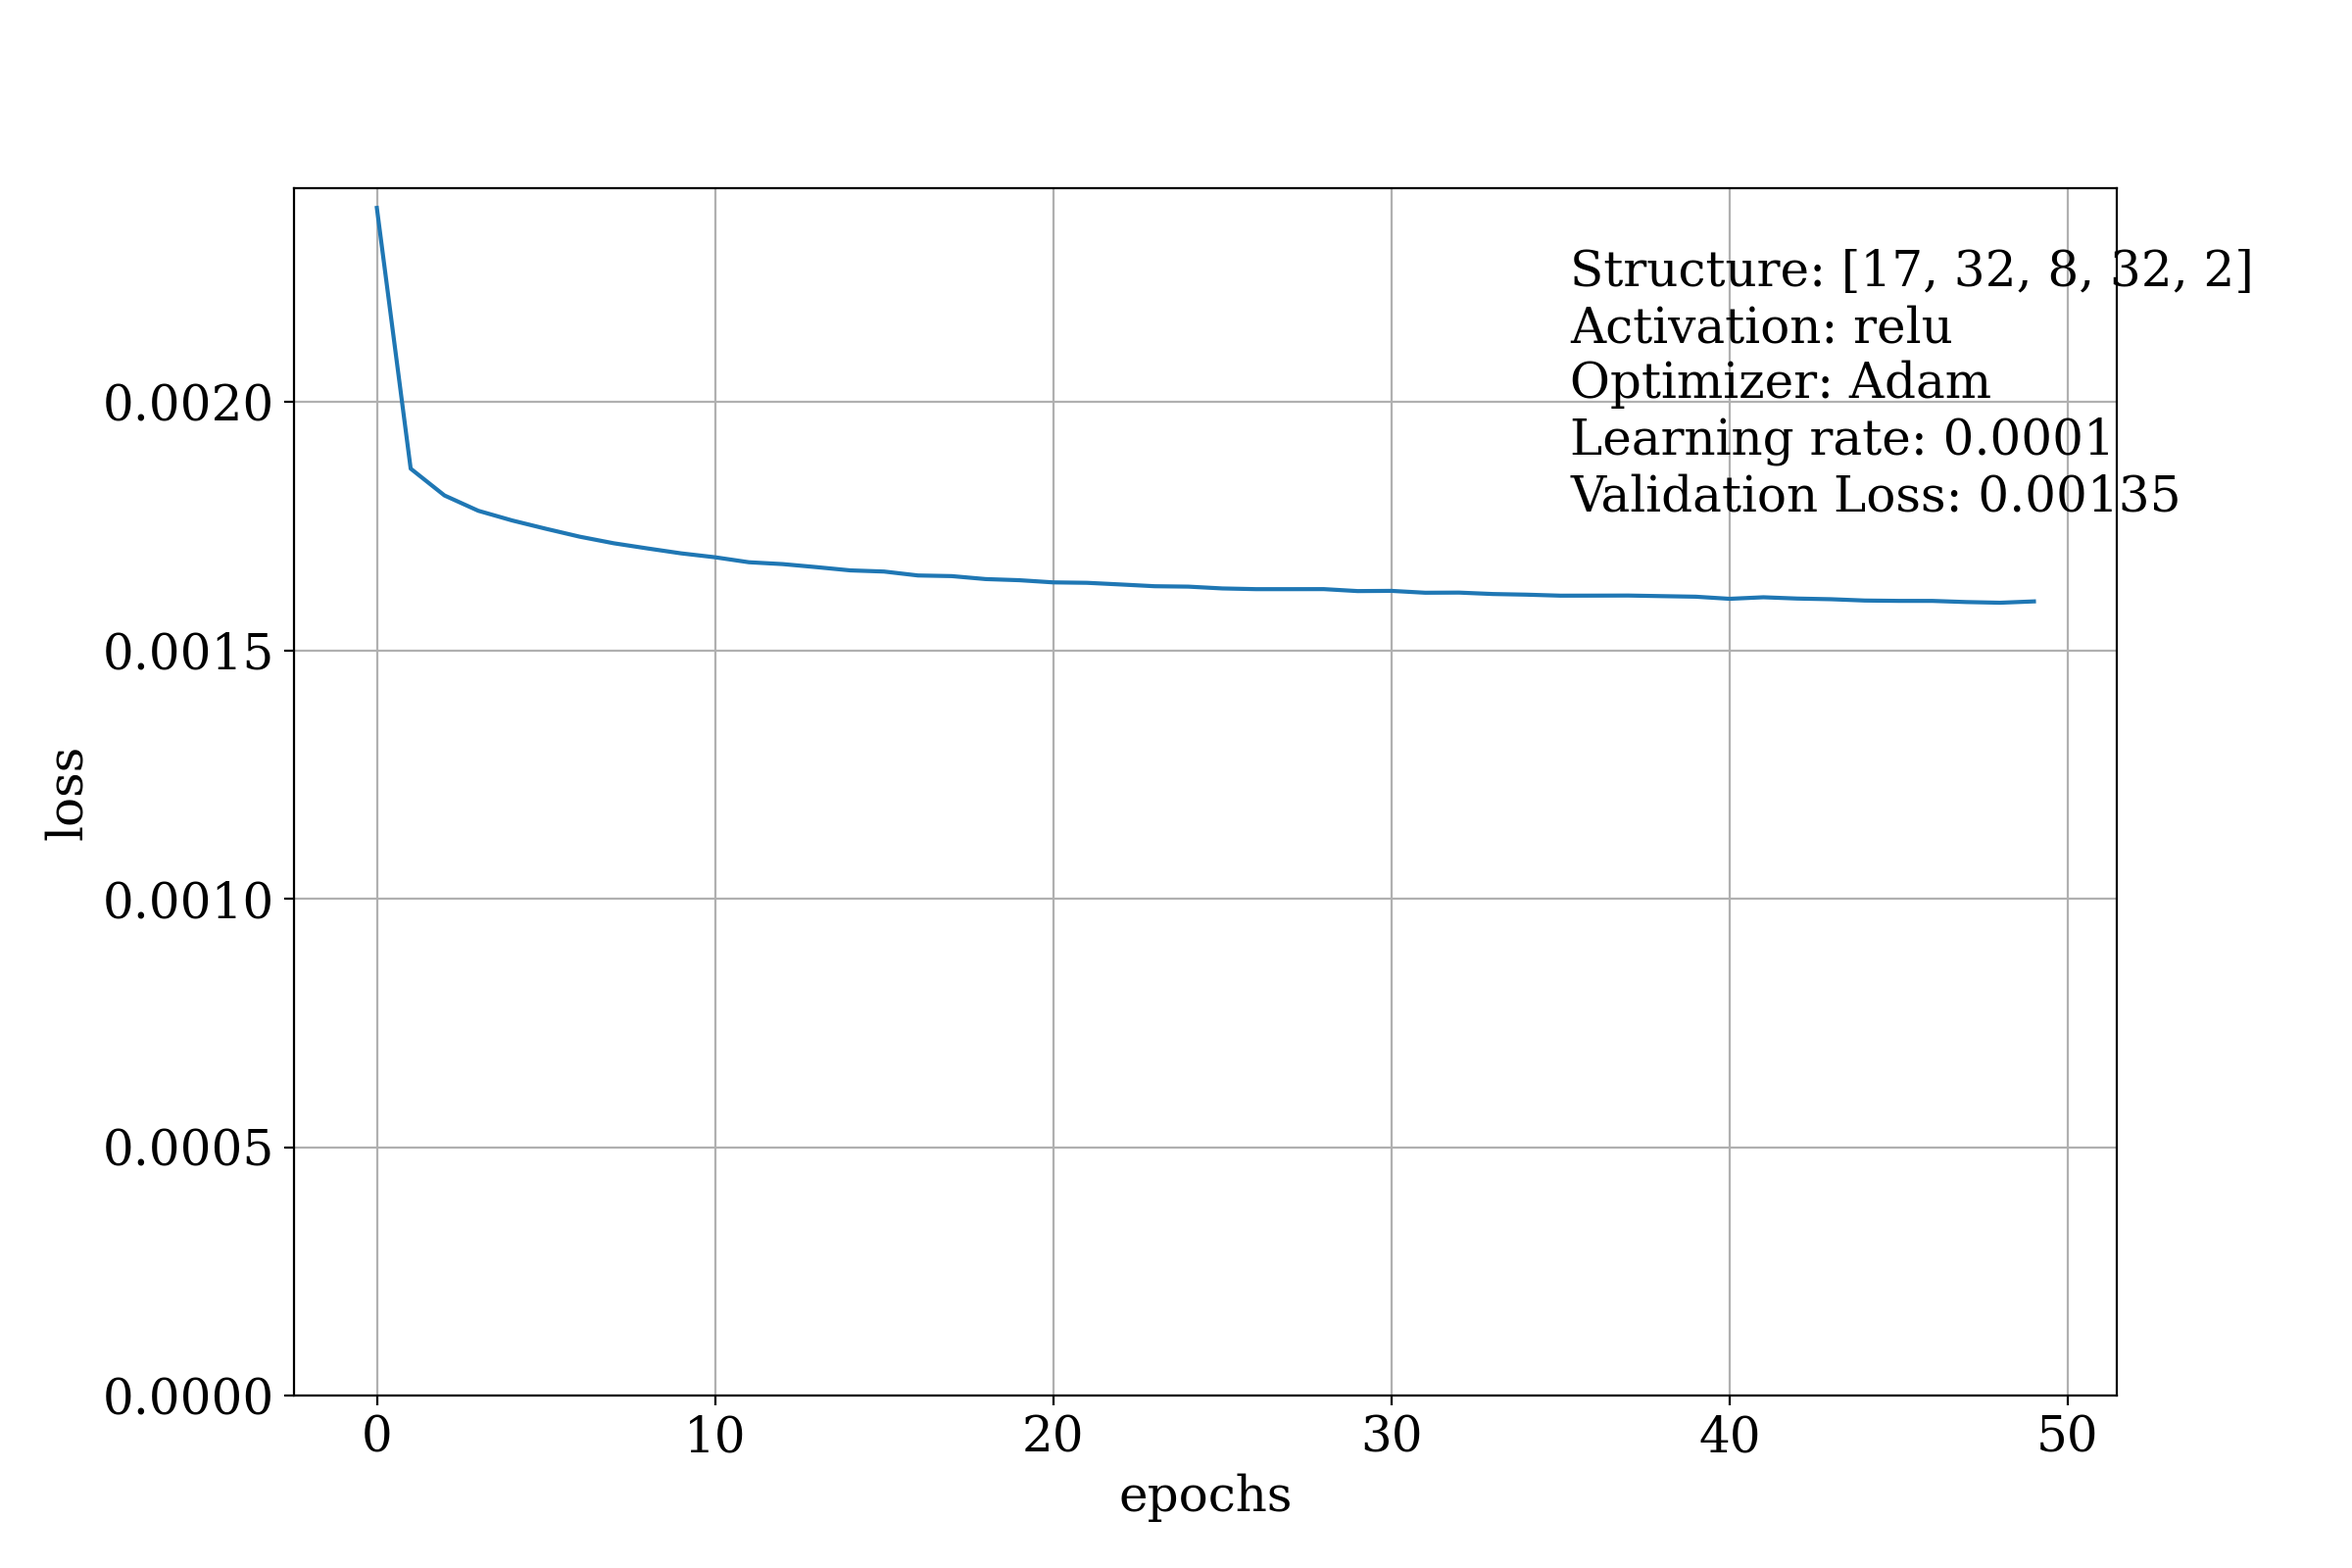
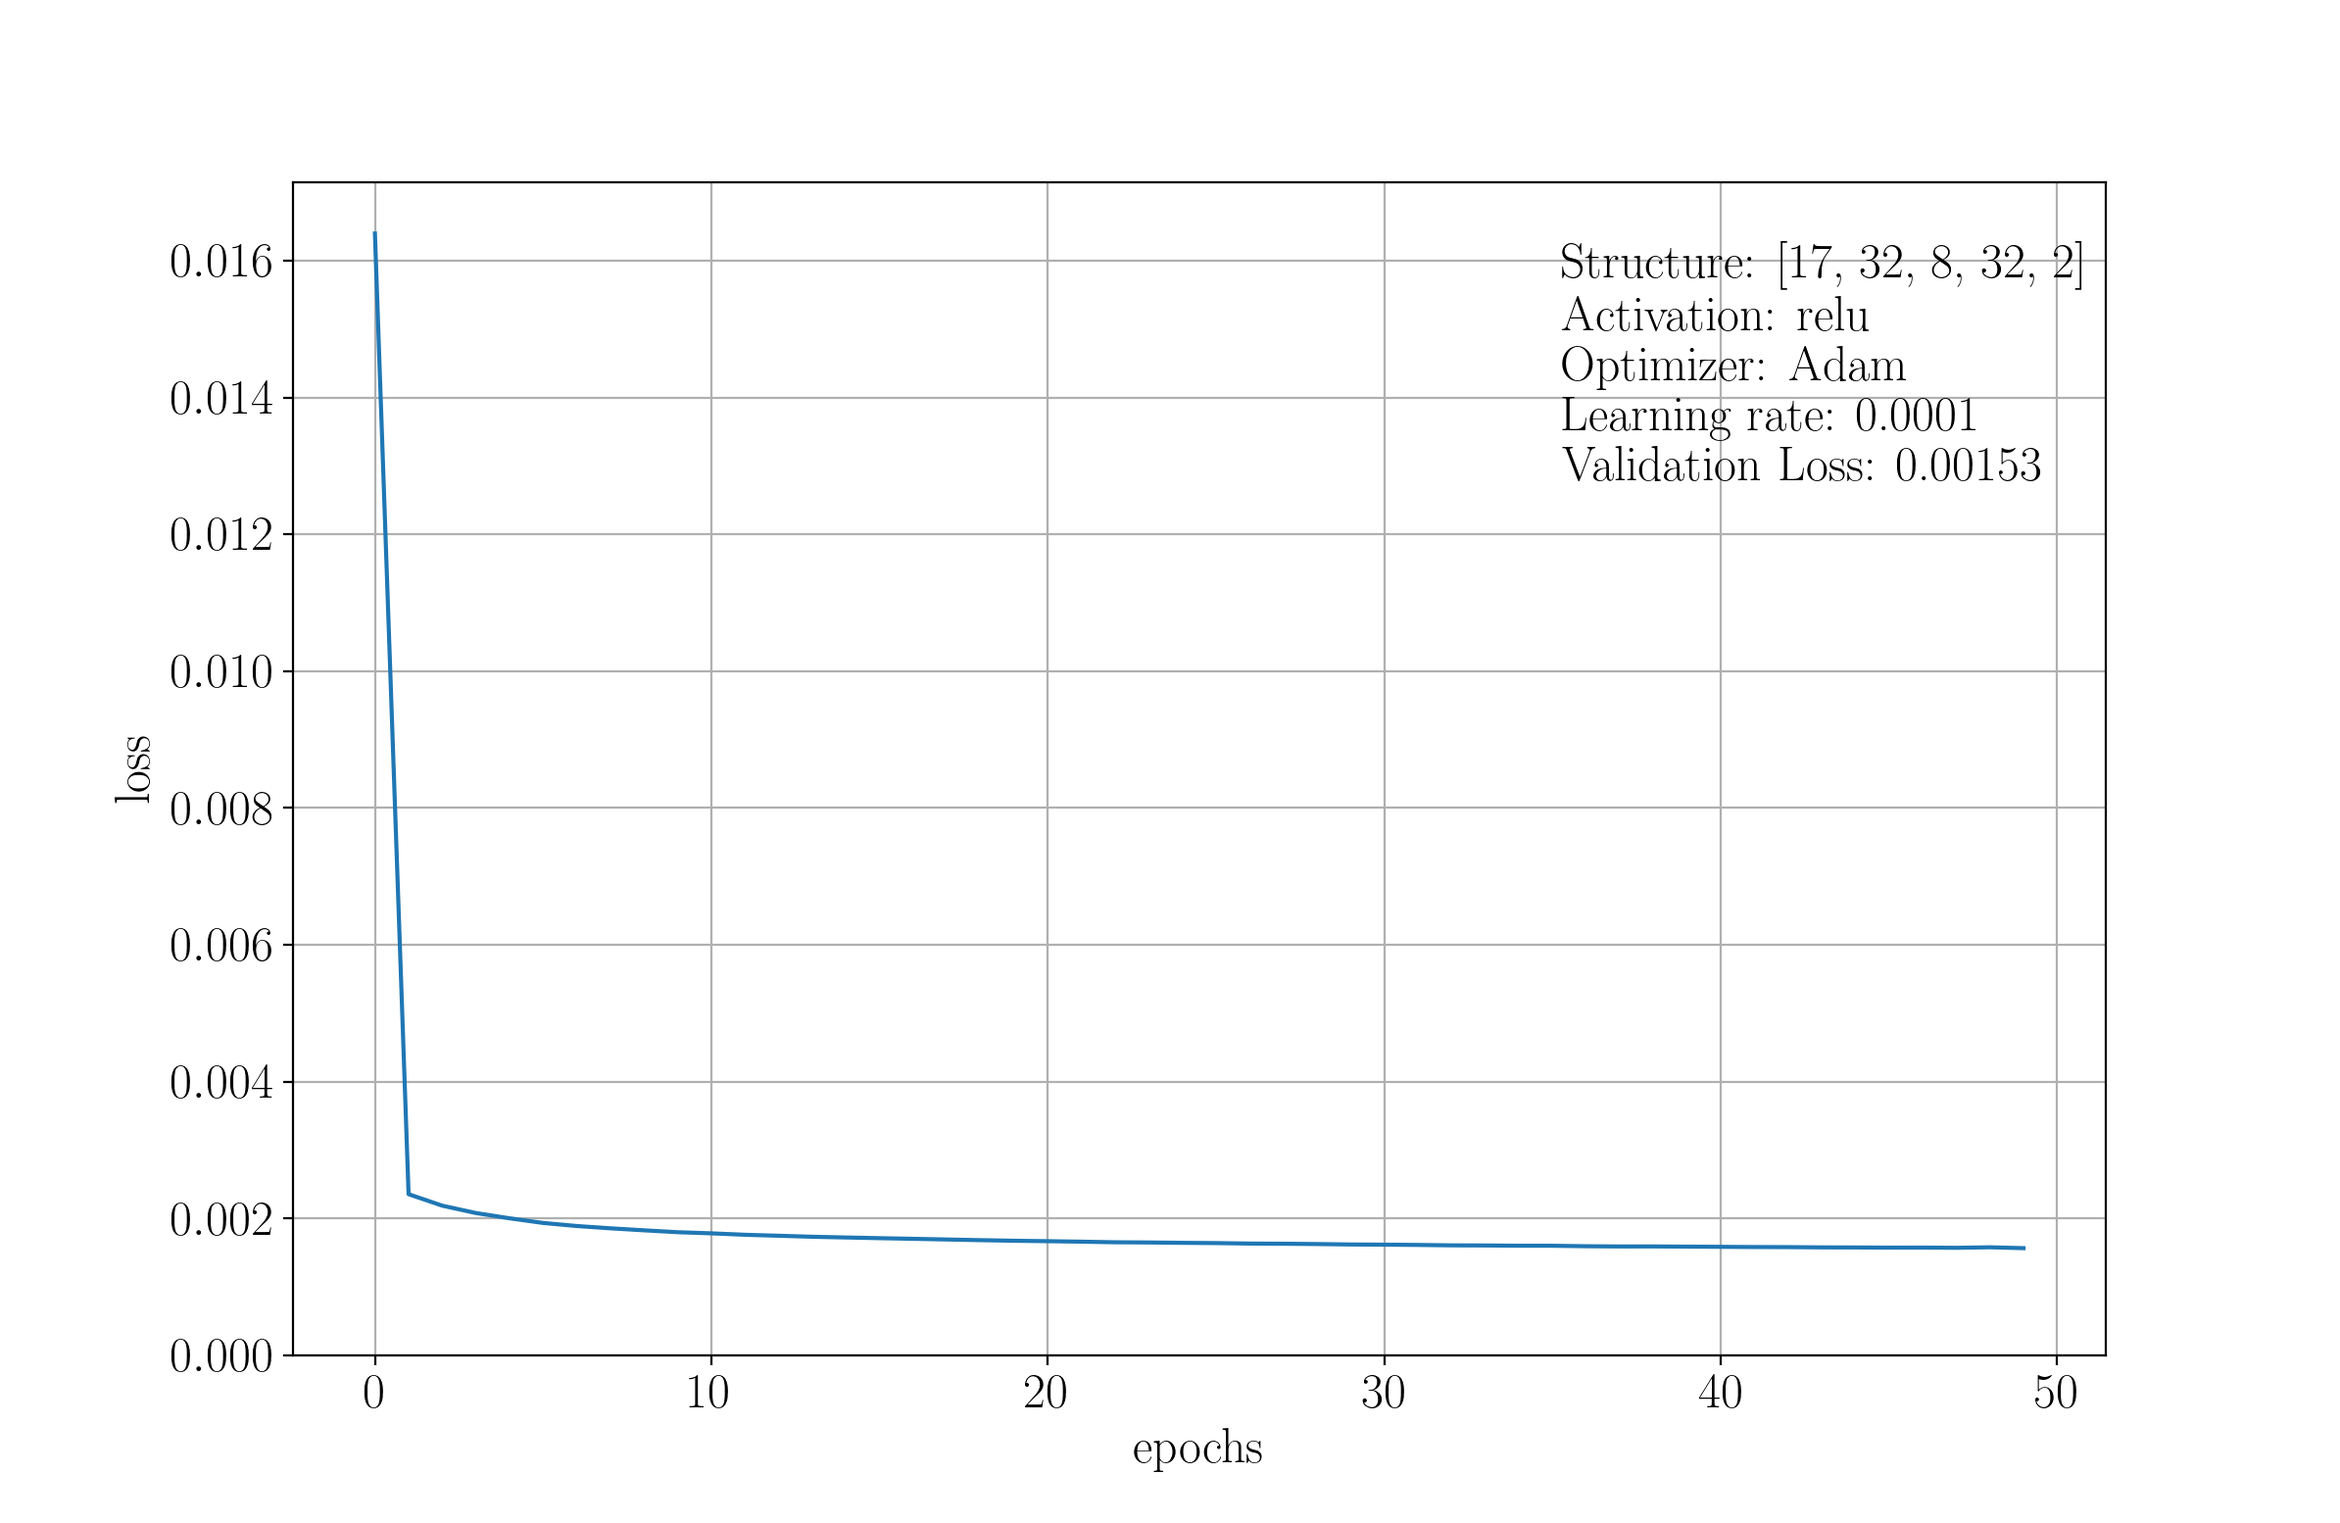
created last plot

diff --git a/Assignment 2/code/ass2_code.py b/Assignment 2/code/ass2_code.py
@@ -73,7 +73,7 @@ pylab.rcParams.update({
     'xtick.labelsize': fontsize,
     'ytick.labelsize': fontsize,
     'savefig.dpi': dpi,
-    "text.usetex": False,
+    "text.usetex": True,
     "font.family": "serif"
 })
 
